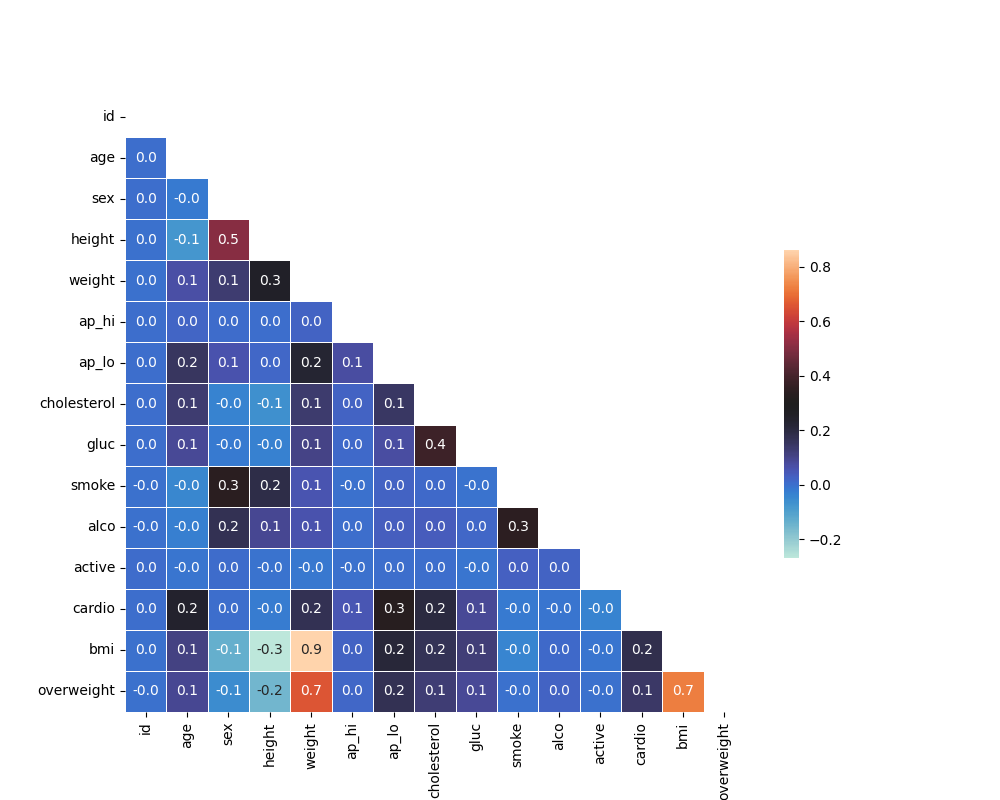
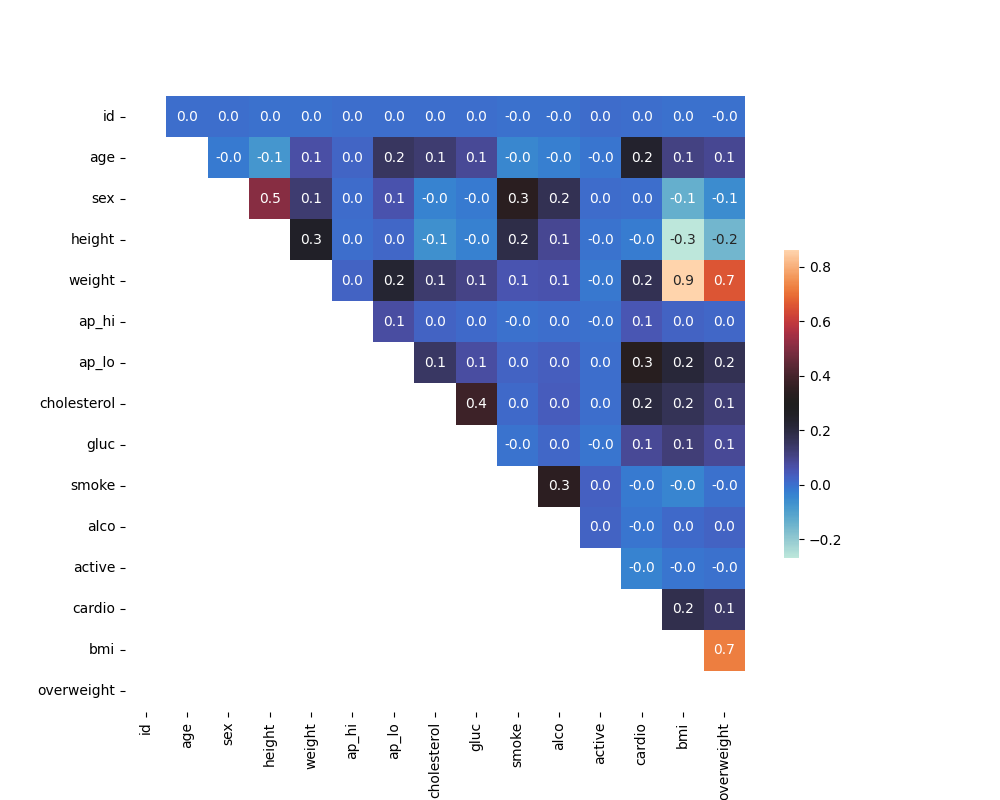
oopsie

diff --git a/main.py b/main.py
@@ -22,7 +22,7 @@ df_heat = df[(df['height'] >= df['height'].quantile(0.025)) &
                 (df['weight'] >= df['weight'].quantile(0.025)) &
                 (df['weight'] <= df['weight'].quantile(0.975))]
 corr = df_heat.corr()
-mask = np.triu(np.ones_like(corr, dtype=bool))
+mask = np.tril(np.ones_like(corr, dtype=bool))
 fig, ax = plt.subplots(figsize=(10, 8))
-sns.heatmap(corr, mask=mask, annot=True, fmt=".1f", cmap="icefire", cbar_kws={"shrink": 0.5}, linewidths=0.5)
+sns.heatmap(corr, mask=mask, annot=True, fmt=".1f", cmap="icefire", cbar_kws={"shrink": 0.5})
 fig.savefig('heatmap.png')
